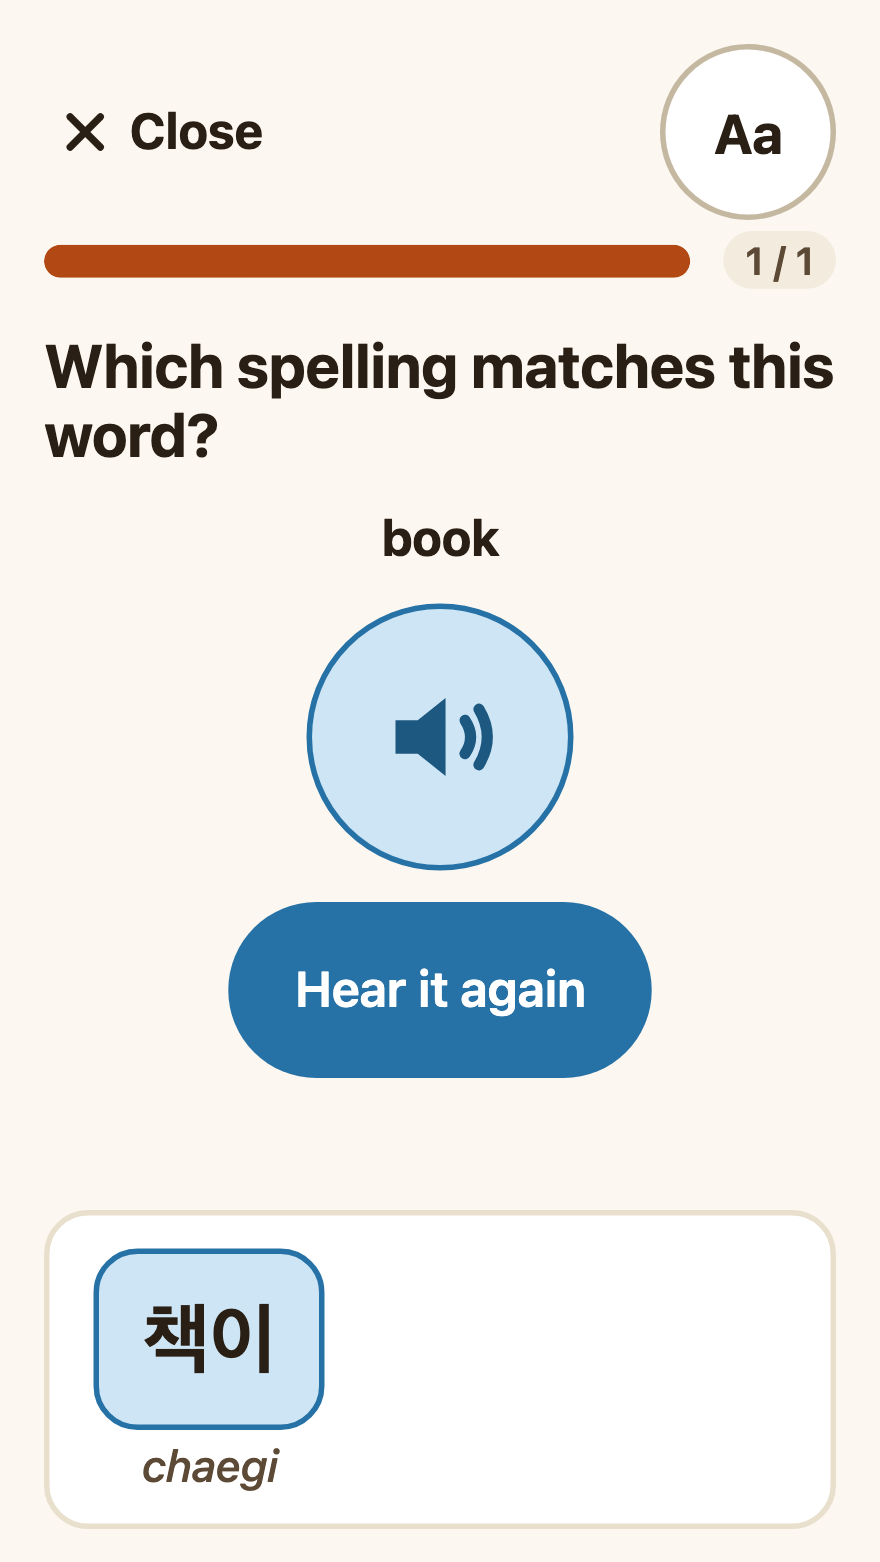
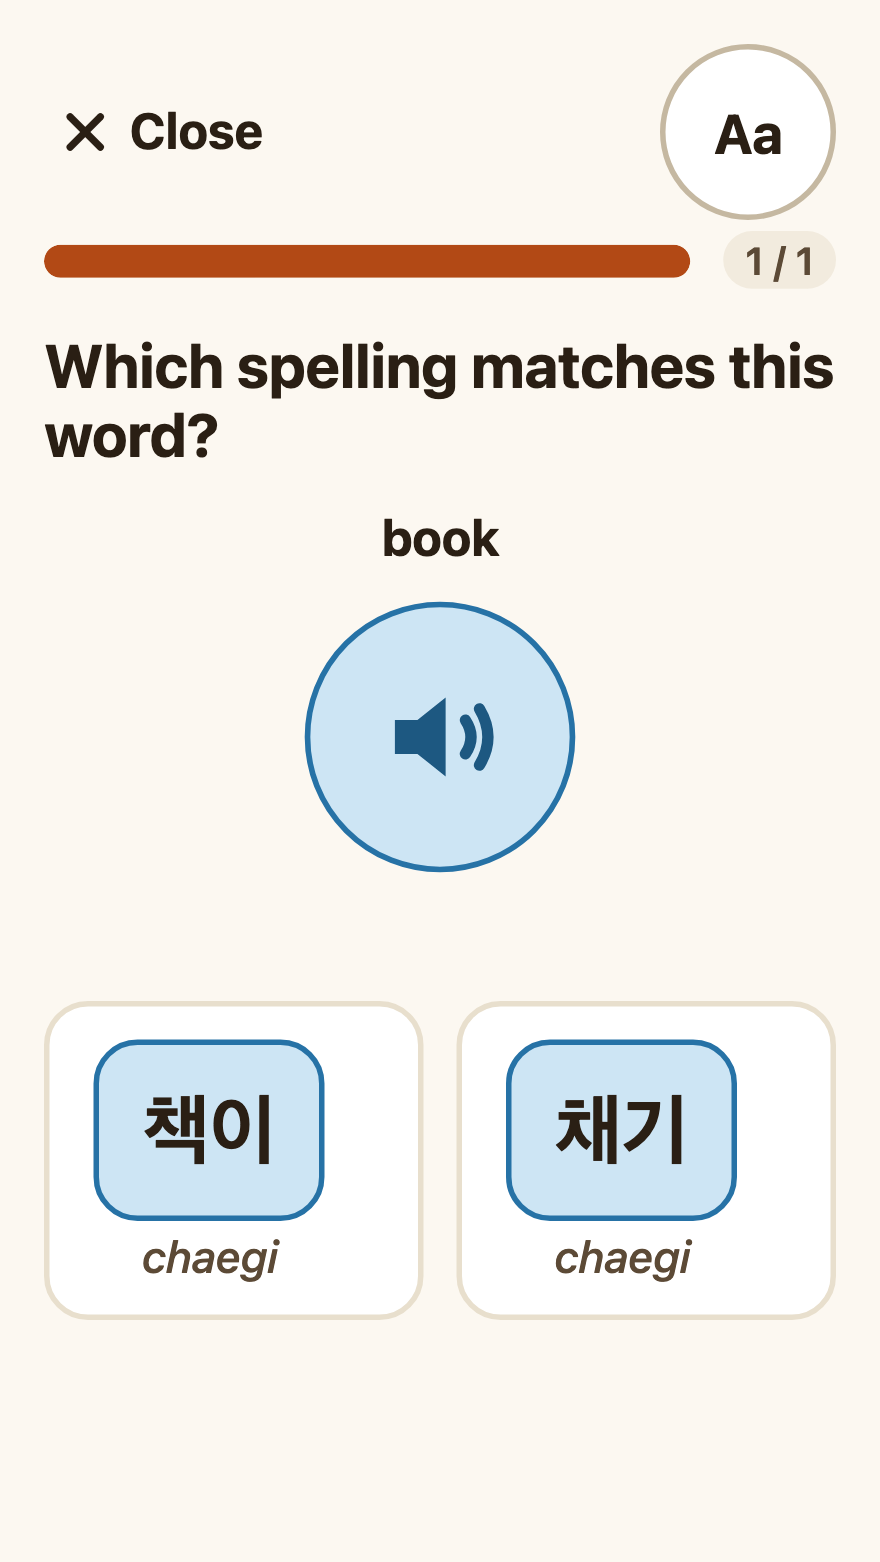
fix(mobile): the spelling round fits 320 x 568: one sound control, the two spellings side by side (F-CURR-002 CM-31)

diff --git a/apps/mobile/src/screens/minigames/ListenPickGame.tsx b/apps/mobile/src/screens/minigames/ListenPickGame.tsx
@@ -17,6 +17,7 @@ import {
   radii,
   spacing,
   touchTarget,
+  layout,
   useLayoutClass,
   useMediaSize,
 } from '@hangul-route/design-system';
@@ -92,6 +93,9 @@ const CARD_CHROME = 2 * spacing.lg + 2 * borderWidth.thick + spacing.xl + spacin
 interface Focusable {
   focus?: () => void;
 }
+
+/** A spelling round's options this short (in glyphs) sit two up at any width (row CM-31). */
+const SPELLING_SIDE_BY_SIDE_GLYPHS = 4;
 
 export function ListenPickGame({ scope, host, onBack, hint, spelling = null }: Props): ReactElement {
   const [seed] = useState(() => Math.floor(Math.random() * 0x7fffffff));
@@ -249,7 +253,14 @@ export function ListenPickGame({ scope, host, onBack, hint, spelling = null }: P
     arrangement === 'side' &&
     !twoUpFits(answersColumnWidth(layoutClass, arrangement, spacing.xl), spacing.md, art + CARD_CHROME)
       ? 1
-      : optionColumns(round, width);
+      : spellingKit !== null && round.options.every((o) => [...(o.text?.ko ?? '')].length <= SPELLING_SIDE_BY_SIDE_GLYPHS)
+        ? // The spelling round's options are short spellings to compare: side by side even on a 320 phone, so both
+          // are on the first screen (row CM-31).
+          2
+        : optionColumns(round, width);
+  // Below 640 tall the spelling round's speaker is its one sound control (it replays on every tap), as the design's
+  // single [ (speaker) Hear it ] reads, so the meaning, the speaker and both spellings fit the first screen.
+  const hearAgainShown = spellingKit === null || !(layoutClass.windowHeight > 0 && layoutClass.windowHeight < layout.compactHeight);
   const showMissHoya = host.mode !== 'review' && state.status === 'asking' && state.wrongIds.length > 0;
   const optionContext = { mode: host.mode, romanizationMode, ...(spellingKit === null ? {} : { labelOf: spellingKit.spellingOptionLabel }) };
 
@@ -306,15 +317,17 @@ export function ListenPickGame({ scope, host, onBack, hint, spelling = null }: P
                   <Icon name="speaker" size={speakerIcon} color={colors.brand.secondaryDark} />
                 </Pressable>
               </Animated.View>
-              <View style={{ alignSelf: 'center' }}>
-                <Button
-                  label={copy.listenPick.hearAgain.cta}
-                  tone="secondary"
-                  size="md"
-                  onPress={hear}
-                  testID="listen-pick-hear-again"
-                />
-              </View>
+              {hearAgainShown ? (
+                <View style={{ alignSelf: 'center' }}>
+                  <Button
+                    label={copy.listenPick.hearAgain.cta}
+                    tone="secondary"
+                    size="md"
+                    onPress={hear}
+                    testID="listen-pick-hear-again"
+                  />
+                </View>
+              ) : null}
 
               <View accessibilityLiveRegion="polite" style={{ alignItems: 'center', gap: spacing.sm }}>
                 {prompt.content ? (

diff --git a/apps/mobile/e2e/web/type-hangul-hear.spec.ts b/apps/mobile/e2e/web/type-hangul-hear.spec.ts
@@ -204,6 +204,8 @@ test.describe('Dictation and the spelling round (F-CURR-002 CM-31)', () => {
     await expect(page.getByText('1 / 1')).toBeVisible();
     await expect(page.getByTestId('dictation-prompt-speaker')).toHaveCount(0);
     await expect(page.getByTestId('dictation-notice')).toHaveCount(0);
+    // An ordinary see round: the see line, never the hear line the round was written with.
+    await expect(page.getByText('Type the word you hear.')).toHaveCount(0);
     await shot(page, 'dictation-320-switch-off');
     await typeKeys(page, 'ㅅㅏㄱㅗㅏ');
     await page.getByTestId('type-hangul-done').click();
@@ -219,11 +221,18 @@ test.describe('Dictation and the spelling round (F-CURR-002 CM-31)', () => {
     await expect(page.getByTestId('spelling-cue-gloss')).toHaveText('book');
     await expect(page.getByTestId('listen-pick-option-a')).toHaveAttribute('aria-label', '치읓 애 기역, 이응 이. chaegi');
     await expect(page.getByTestId('listen-pick-option-b')).toHaveAttribute('aria-label', '치읓 애, 기역 이. chaegi');
-    for (const id of ['listen-pick-speaker', 'listen-pick-hear-again', 'listen-pick-option-a', 'listen-pick-option-b']) {
+    // Below 640 tall the speaker is the one sound control (it replays on every tap), so both spellings fit the first
+    // screen side by side, with the meaning and the speaker above them: nothing to scroll to compare them.
+    await expect(page.getByTestId('listen-pick-hear-again')).toHaveCount(0);
+    for (const id of ['spelling-cue-gloss', 'listen-pick-speaker', 'listen-pick-option-a', 'listen-pick-option-b']) {
       const b = await page.getByTestId(id).boundingBox();
-      expect(Math.min(b!.width, b!.height), id).toBeGreaterThanOrEqual(MIN_TARGET - 0.5);
+      if (id !== 'spelling-cue-gloss') expect(Math.min(b!.width, b!.height), id).toBeGreaterThanOrEqual(MIN_TARGET - 0.5);
       expect(b!.x + b!.width, id).toBeLessThanOrEqual(320.5);
+      expect(b!.y, id).toBeGreaterThanOrEqual(-0.5);
+      expect(b!.y + b!.height, id).toBeLessThanOrEqual(568.5);
     }
+    const [optA, optB] = [await page.getByTestId('listen-pick-option-a').boundingBox(), await page.getByTestId('listen-pick-option-b').boundingBox()];
+    expect(Math.abs(optA!.y - optB!.y)).toBeLessThanOrEqual(1);
     await expectNoHorizontalOverflow(page);
     await shot(page, 'spelling-320');
     await page.getByTestId('listen-pick-option-b').click();
